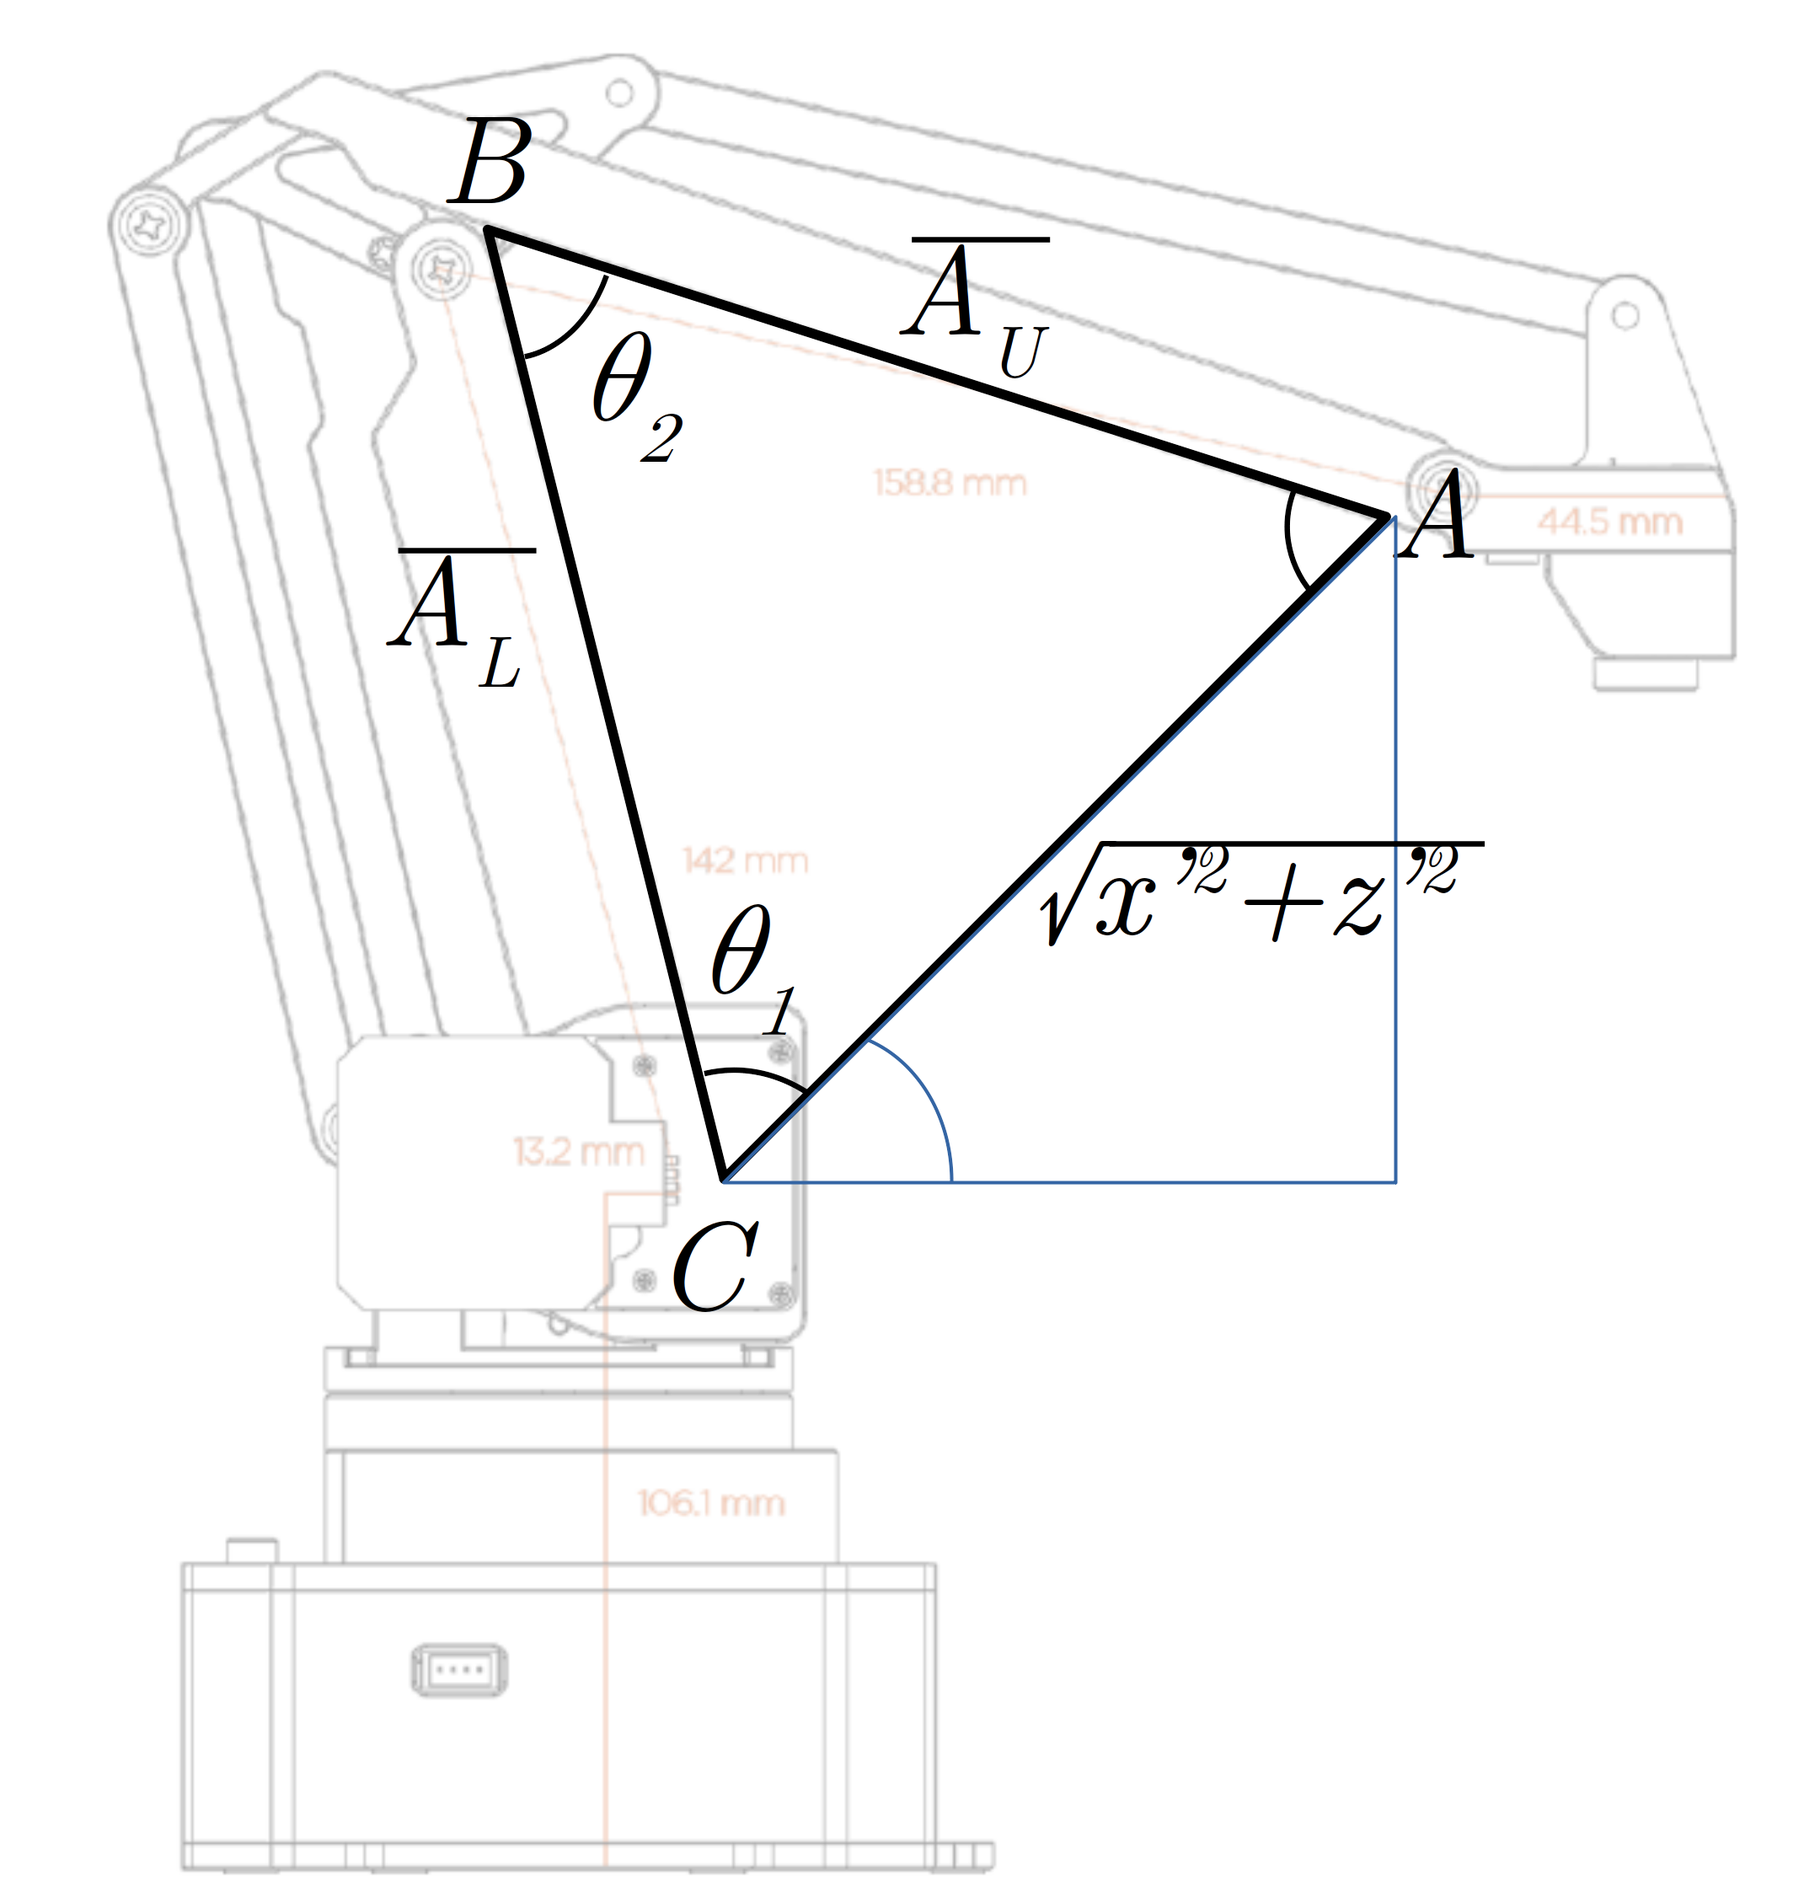
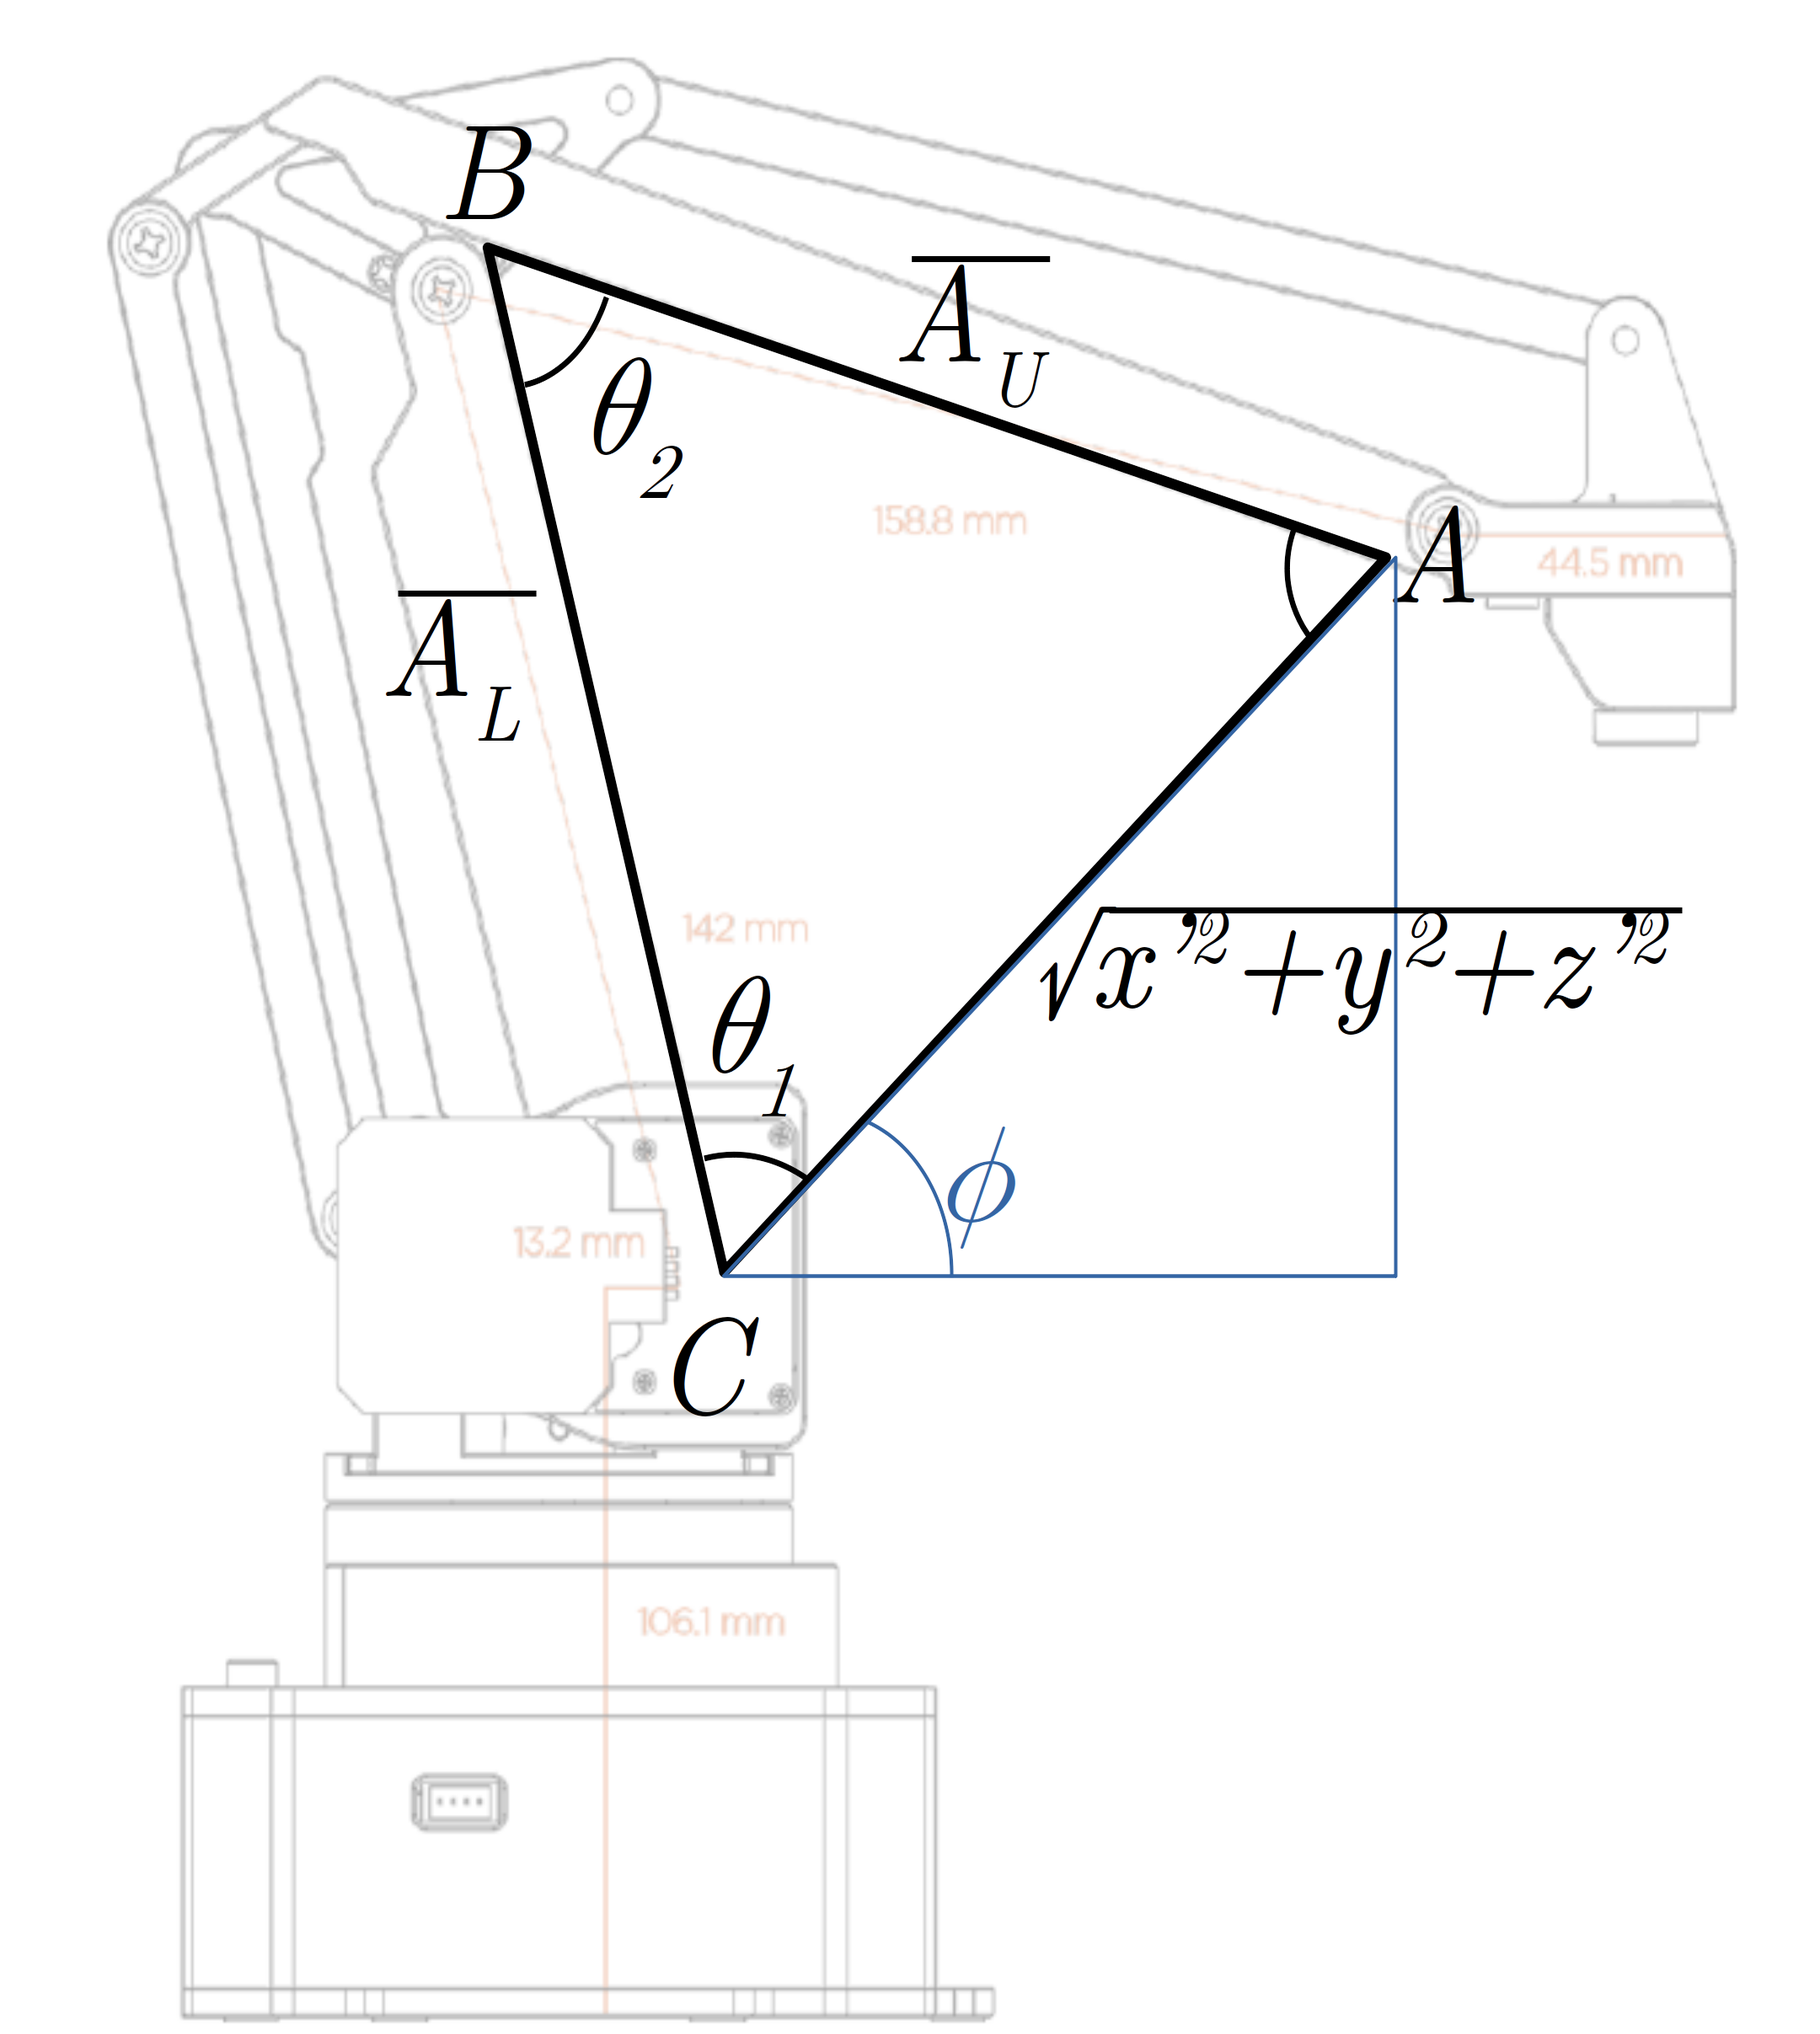
Updated maths

Changed region(s): [[0.7134, 0.4318, 0.9306, 0.4935], [0.5273, 0.5552, 0.5583, 0.6169]]

diff --git a/matematicas/cinematica_inversa.tex b/matematicas/cinematica_inversa.tex
@@ -251,11 +251,12 @@ Del triángulo mostrado en la figura \ref{fig:ik_over_arm} se conocen siempre la
 `$a$' y `$c$'. La distancia `$b$' sin embargo también se puede obtener. Para la cinemática
 inversa se tiene el punto $\left(x, y, z\right)$ que referencia la posición final del
 \textit{end--effector}. En la figura \ref{fig:ik_over_arm}, el triángulo que se muestra
-está situado sobre el plano $XZ$, por lo que de los puntos anteriores se sabe que el 
-\textit{end--effector} se sitúa en: $P_{ee} = \left(x', z'\right)$, por lo que se puede
-definir un vector desde la base $\overrightarrow{x'z'}$ que represente el lado `$b$'.
-Como se puede apreciar, no se usan los puntos $\left(x, z\right)$ originales sino que
-previamente es necesario modificarlos:
+está situado sobre el plano $XYZ$ (ya que la rotación de la base es en el plano $XY$
+y afecta a la posición final), por lo que de los puntos anteriores
+se sabe que el \textit{end--effector} se sitúa en: $P_{ee} = \left(x', y, z'\right)$, 
+por lo que se puede definir un vector desde la base $\overrightarrow{x'yz'}$ que 
+represente el lado `$b$'. Como se puede apreciar, no se usan los puntos $\left(x, z\right)$ 
+originales sino que previamente es necesario modificarlos:
 \begin{itemize}
     \item Para la coordenada `$x$' se ha de reducir la longitud del \textit{end--effector}
     $\left(\overline{A_{EF_L}}\right)$ junto con la desviación de la base $\left(\overline{A_{B_D}}\right)$
@@ -263,21 +264,7 @@ previamente es necesario modificarlos:
     \begin{equation}\label{eq:x_prime}
         x' = x - \overline{A_{EF_L}} - \overline{A_{B_D}} = x - 44.5 - 13.2 = x - 57.7
     \end{equation}
-    \item Además, para la coordenada anterior, se define una dependencia respecto a la
-    posición en `$y$', ya que dicha posición define (según la vista cenital) el largo del
-    brazo y la posición del mismo. Por ello, no se puede físicamente estirar el brazo sin
-    alterar la distancia en `$x$' (ver figura \ref{fig:y_movement}):
-    \begin{figure}[H]
-        \centering
-        \includegraphics[width=.5\linewidth]{pictures/y_coord_movevment.png}
-        \caption{Demostración de cómo un ajuste en la posición `$y$' provoca una alteración en `$x$'.}
-        \label{fig:y_movement}
-    \end{figure}
-
-    De esta manera, la coordenada $x'$ se define como:
-    \begin{equation*}
-        x' = \frac{x'}{\sin{\theta_0}}
-    \end{equation*}
+    
     \item Para la coordenada `$z$' es necesario quitar la altura de la base $\left(A_{B_h}\right)$
     además de añadir la altura del \textit{end--effector} $h_o$ para dejar un punto 
     relativo al $\left(0\right)$. Así, el punto $z'$ se puede definir
@@ -287,9 +274,32 @@ previamente es necesario modificarlos:
     \end{equation}
 \end{itemize}
 
+Como el movimiento del brazo se realiza sobre un plano tridimensional, la posición y
+longitud desde la base hasta $P_{ee}$ requiere tener en cuenta las tres coordenadas
+$\left(x, y, z\right)$. Por ejemplo, la posición $y = \numprint[mm]{200}$ solo es 
+alcanzable si el brazo está estirado al completo, pero en ese punto $x = 0$, al igual
+que la posición $x = \numprint[mm]{200}$ solo es alcanzable si $y = 0$ (esto se muestra
+en la figura \ref{fig:arm_limits}).
+
+\begin{figure}[H]
+    \begin{minipage}{.45\linewidth}
+        \centering
+        \includegraphics[width=\linewidth]{pictures/arm_y_max.png}
+        \caption{Posición máxima en `$y$', donde $x = 0$.}
+    \end{minipage}
+    \hfill
+    \begin{minipage}{.45\linewidth}
+        \centering
+        \includegraphics[width=\linewidth]{pictures/arm_x_max.png}
+        \caption{Posición máxima en `$x$', donde $y = 0$.}
+    \end{minipage}
+    \caption{Demostración de la correlación entre `$x$' e `$y$'.}
+    \label{fig:arm_limits}
+\end{figure}
+
 Con estos datos ya obtenidos se puede definir el lado `$b$' como:
 \begin{equation*}
-    b = \left|\overrightarrow{x'z'}\right| = \sqrt{x'^2 + z'^2}
+    b = \left|\overrightarrow{x'yz'}\right| = \sqrt{x'^2 + y^2 + z'^2}
 \end{equation*}
 
 Cabe destacar que $h_o$ varía según el \textit{end--effector} que se encuentre acoplado
@@ -315,7 +325,7 @@ Con las modificaciones en los lados ya listas, se puede definir un triángulo qu
         \end{aligned}\right.
     \end{equation*}
     \item Tiene un lado variable `$b$' definido por el vector $\overrightarrow{x'z'}$
-    y cuya longitud es: $b = \left|\overrightarrow{x'z'}\right| = \sqrt{x'^2 + z'^2}$.
+    y cuya longitud es: $b = \left|\overrightarrow{x'yz'}\right| = \sqrt{x'^2 + y^2 + z'^2}$.
 \end{itemize}
 Así, el triángulo resultante se define según las siguientes dimensiones y ángulos (figura
 \ref{fig:ik_triangle}):
@@ -342,16 +352,16 @@ dos veces el teorema del coseno (ecuación \ref{eq:cosine_law_angle}) para obten
 los valores de $\theta_1'$ (ver ecuación \ref{eq:t1}) y $\theta_2'$ (ver ecuación \ref{eq:t2}):
 
 \begin{align}
-    \theta_1' & = \arccos{\left(\frac{-\overline{A_L}^2 - \left(x'^2 + z'^2\right) + \overline{A_U}^2} %
-    {-2 \cdot \overline{A_L} \cdot \sqrt{x'^2 + z'^2}}\right)} \label{eq:t1} \\[2ex]
-    \theta_2' & = \arccos{\left(\frac{-\overline{A_L}^2 - \overline{A_U}^2 + x'^2 + z'^2} %
-    {-2 \cdot \overline{A_L} \cdot \overline{A_U}}\right)} \label{eq:t2}
+    \theta_1' & = \arccos{\left(\frac{-\overline{A_L}^2 - \left(x'^2 + y^2 + z'^2\right) + \overline{A_U}^2} %
+    {-2 \overline{A_L} \sqrt{x'^2 + y^2 + z'^2}}\right)} \label{eq:t1} \\[2ex]
+    \theta_2 & = \arccos{\left(\frac{-\overline{A_L}^2 - \overline{A_U}^2 + x'^2 + y^2 + z'^2} %
+    {-2 \overline{A_L} \cdot \overline{A_U}}\right)} \label{eq:t2}
 \end{align}
 
 Como se puede apreciar en las ecuaciones anteriores, todavía no se tienen los valores finales
-de los ángulos sino una primera aproximación a ellos. Esto es debido a que tanto el ángulo
-$\theta_1$ como el ángulo $\theta_2$ que aparecen en el triángulo de la figura \ref{fig:ik_triangle}
-no se encuentran paralelos al plano del suelo, en este caso, el eje $X$ (tal y como se puede ver
+de los ángulos sino una primera aproximación a ellos. Esto es debido a que el ángulo
+$\theta_1$ que aparece en el triángulo de la figura \ref{fig:ik_triangle}
+no se encuentra paralelo al plano del suelo, en este caso, el plano $XY$ (tal y como se puede ver
 en la figura \ref{fig:u_triangle_over_arm}).
 
 Para poder obtener los ángulos reales se ha de añadir el ángulo `$\phi$' que relaciona el triángulo
@@ -368,21 +378,16 @@ Para poder obtener los ángulos reales se ha de añadir el ángulo `$\phi$' que 
 La obtención de dicho ángulo se muestra en la ecuación \ref{eq:phi}
 
 \begin{equation}\label{eq:phi}
-    \phi = \arctan{\frac{x'}{z'}}~rad
+    \phi = \arctan{\frac{z'}{\sqrt{x'^2 + y^2}}}~rad
 \end{equation}
 
-y los ángulos finales $\theta_1$ y $\theta_2$ se obtienen mediante la ecuación
+y $\theta_1$ se obtiene mediante la ecuación
 \ref{eq:final_theta}\footnote{el ángulo $\phi$ se suma o se resta según la orientación
     del triángulo ya que la arcotangente varía en signo según la posición de los puntos
     $x'$ y $z'$, tal como se muestra en la documentación al desarrollador\cite{UArmDeveloperSwiftProForArduino}.}:
 
 \begin{equation}\label{eq:final_theta}
-    \left\{
-    \begin{aligned}
-        \theta_1 & = \theta_1' - \phi \\
-        \theta_2 & = \theta_2' + \phi \\
-    \end{aligned}
-    \right.
+    \theta_1 = \theta_1' - \phi
 \end{equation}
 
 Finalmente, por seguridad, se puede comprobar que en efecto los distintos ángulos obtenidos
